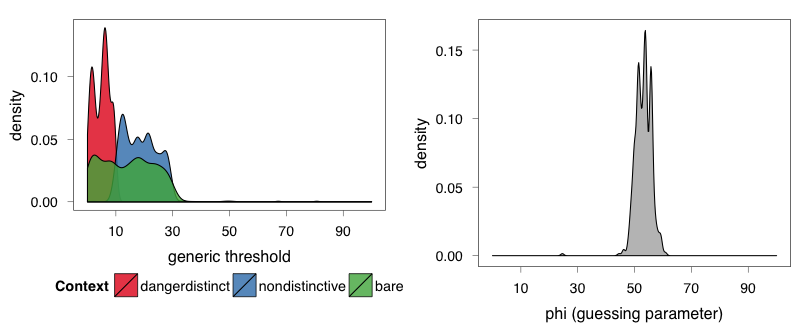
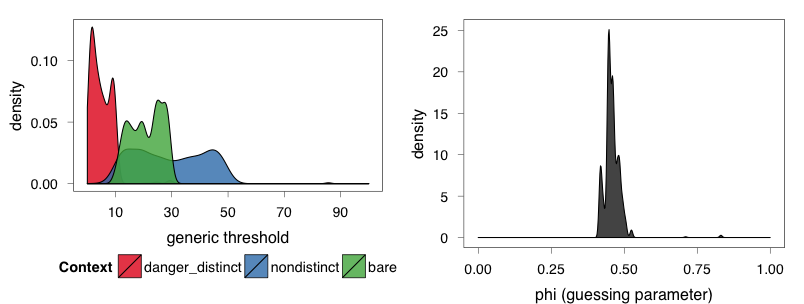
Finished (draft) of TFBT-fixedThreshold section; new figs

diff --git a/cogsci-2015/paper/generics-cogsci15.tex b/cogsci-2015/paper/generics-cogsci15.tex
@@ -136,9 +136,9 @@ Here, we say that we, as scientists, have perfect uncertainty about what the gen
 
 \subsection{Results}
 
-The results can be seen if Figure \ref{fig:bda1a}. In the ``bare'' condition, the analysis says the threshold is between 0 and 30, but is uncertain where exactly in that range the threshold would be. Critically, in the ``dangerous and distinctive'' context, the analysis infers a lower threshold, less than 10. This matches with the intuition, and the empirical results, that a dangerous and distinctive context allows for the generic to be more permissive (e.g. ``Mosquitos carry West Nile Virus'' is true, even though very few mosquitoes actually do). Finally, and intruigingly, the analysis infers a 3rd distinct threshold profile for the nondistinctive context.  For this, it says that threshold is most likely under 30 but above 10. This is an overall higher inferred threshold for the nondistinctive category, and an aspect missed by standard NHST. 
+The results can be seen if Figure \ref{fig:bda1a}. In the ``bare'' condition, the analysis says the threshold is between 0 and 30, but is uncertain where exactly in that range the threshold would be. Critically, in the ``dangerous and distinctive'' context, the analysis infers a lower threshold, less than 10. This matches with the intuition, and the empirical results, that a dangerous and distinctive context allows for the generic to be more permissive (e.g. ``Mosquitos carry West Nile Virus'' is true, even though very few mosquitoes actually do). Finally, and most intriguingly, the analysis infers a 3rd distinct threshold profile for the nondistinctive context.  For this, it says that threshold is greater than 10, but could be as high as 50. This is an overall higher inferred threshold for the nondistinctive category, and an aspect totally missed by standard NHST. 
 
-There is something fundamentally wrong about this cognitive model, however. The model is a simple model of truth-functional semantics, stating that any situation with a prevalence greater than the threshold will return True, and anything less, will return False. We see the consequences of these assumptions in the data analysis parameter $\phi$. $\phi$ represents the percentage of responses that the data analysis model wants to attribute to guessing. This proportion is somewhere between 50 and 60\%. The amount of guessing is so high because our computational model is inflexible.
+There is something fundamentally wrong about this analysis, however. Specifically, there is a problem with the cognitive model. The model is a simple model of truth-functional semantics, stating that any situation with a prevalence greater than the threshold will return True, and anything less, will return False. We see the consequences of these assumptions in the data analysis parameter $\phi$. $\phi$ represents the percentage of responses that the data analysis model wants to attribute to guessing. This proportion is somewhere between 40 and 50\%. The amount of guessing is so high because our computational model is inflexible.
 
 
 \begin{figure}
@@ -148,14 +148,27 @@ There is something fundamentally wrong about this cognitive model, however. The 
   \label{fig:bda1a}
 \end{figure}
 
+This can also be seen in the posterior predictive distribution of responses. The model matches the trajectory of the dangerous \& distinct context reasonably well, but is too dichotomous in the other contexts. The correlation between the posterior predictive and the data is $r = 0.86$. 
 
-\begin{itemize}
-\item Inferred value of theta across contexts. 
-\item $\phi$ parameter. 
-\item Posterior predictive of fixed threshold model?
+\begin{figure}
+\centering
+    \includegraphics[width=\columnwidth]{fig3_bda1_postpred}
+    \caption{Posterior predictive using fixed-threshold semantics}
+  \label{fig:bda1posteriorpred}
+\end{figure}
 
-Rather than just say the context gives rise to different thresholds, we should instead consider that the threshold is \emph{inferred}, by the subject, from context. This gives rise to a slightly different type of model... a cognitive, language-understanding model.
-\end{itemize}
+
+
+
+
+%\begin{itemize}
+%\item Inferred value of theta across contexts. 
+%\item $\phi$ parameter. 
+%\item Posterior predictive of fixed threshold model?
+
+Rather than just say context gives rise to different thresholds, we should instead consider that the threshold is \emph{actively inferred}, by the subject, from context. This gives rise to a slightly different type of model... a cognitive, language-understanding model.
+
+%\end{itemize}
 
 \section{Lifted-variable RSA}
 \begin{itemize}
